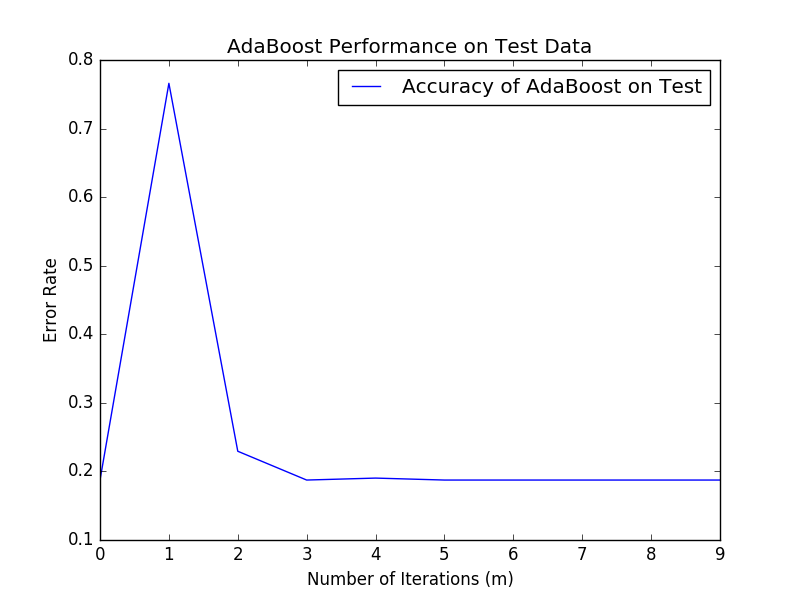
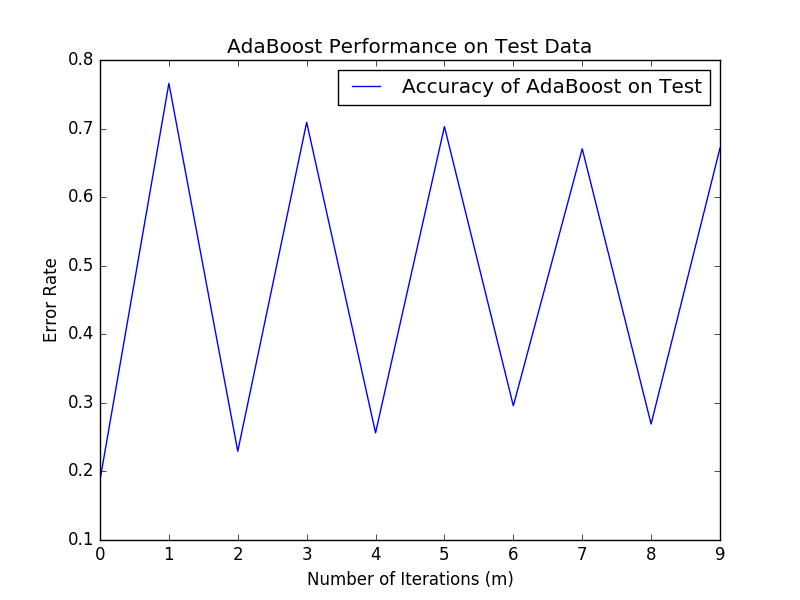
still working through adaboost

diff --git a/decisiontree.py b/decisiontree.py
@@ -73,21 +73,21 @@ def decisiontreeAdaBoost(X, y, initialWeights):
     alphaMValues = []
     for m in range(0, 10):
         clf = DecisionTreeClassifier(max_depth=3)
-        print initialWeights
         clf.fit(X, y, sample_weight=initialWeights)
-        # Plot the tree for this iteration
-        # plotdecisiontree(X, y, clf, 3, 'AdaBoost')
         predictedValueM = clf.predict(X)
         # Add the prediction to list
         clfs.append(clf)
+        # Get a masked array of incorrect predictions, invert to get incorrect.
         incorrectPredctMask = np.invert(np.equal(predictedValueM, y.ravel()))
-        W = np.copy(initialWeights)
-        errm = initialWeights[incorrectPredctMask].sum()/W.sum()
+        print initialWeights
+        errm = initialWeights[incorrectPredctMask].sum()/initialWeights.sum()
         alpham = np.log((1.-errm)/errm)
         # Add alpham value to list
         alphaMValues.append(alpham)
         newWeight = np.exp(alpham)
         np.putmask(initialWeights, incorrectPredctMask, np.array(newWeight))
+        # Normalize the weights
+        initialWeights = initialWeights/initialWeights.sum()
     return accuracyplotAdaBoost(X, y, clfs, alphaMValues)
 
 
